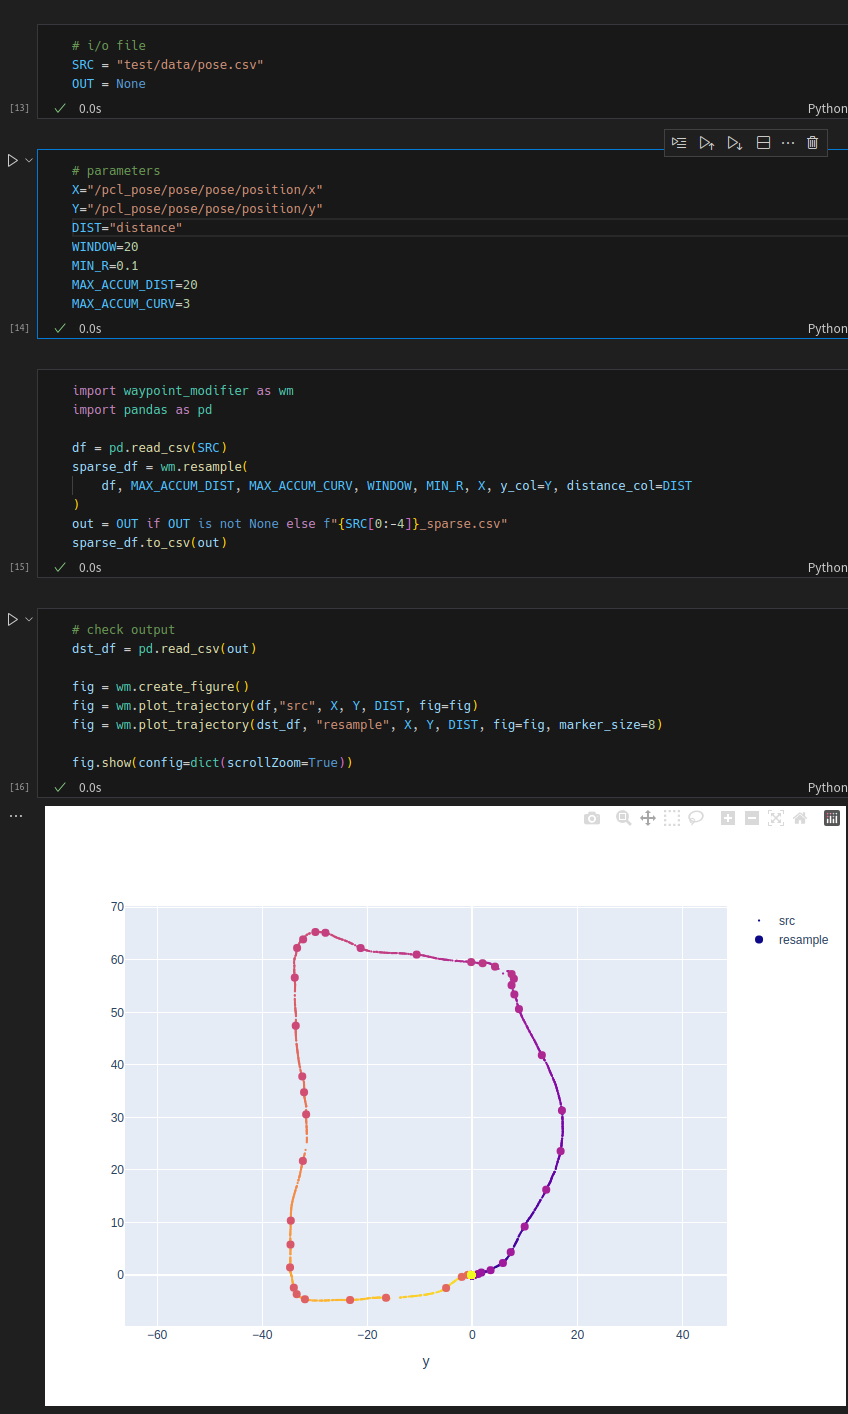
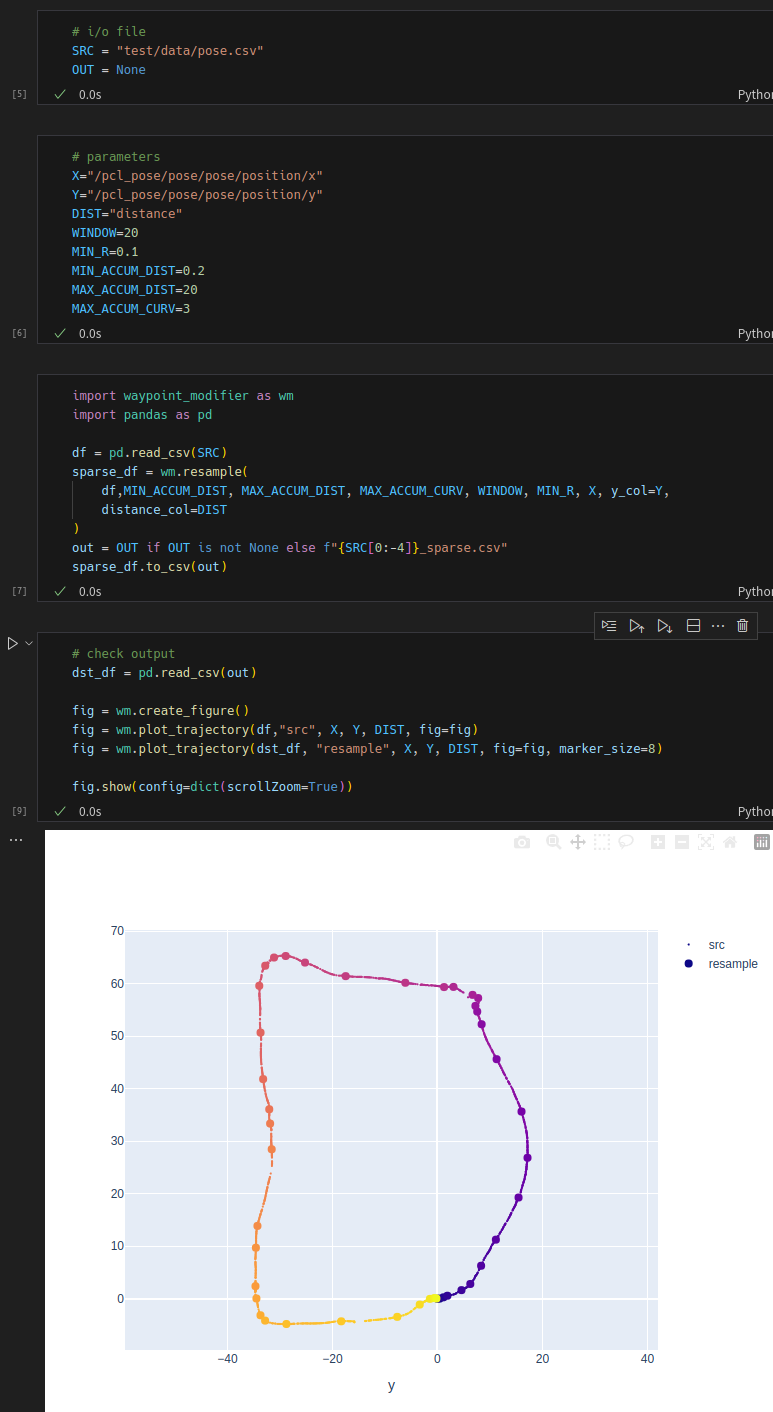
add minimal distance

diff --git a/src/waypoint_modifier/__init__.py b/src/waypoint_modifier/__init__.py
@@ -59,6 +59,7 @@ def set_distance(
 
 def do_sample(
     df: pd.DataFrame,
+    min_d: float,
     max_d: float,
     max_c: float,
     x_col="x",
@@ -77,7 +78,7 @@ def do_sample(
         dist += df[distance_col].values[i]
         curv += df[curvature_col].values[i]
 
-        if dist > max_d or curv > max_c:
+        if (dist > max_d or curv > max_c) and dist > min_d:
             ret.append(df.iloc[i])
             dist = 0.0
             curv = 0.0
@@ -91,6 +92,7 @@ def do_sample(
 
 def resample(
     df: pd.DataFrame,
+    min_d: float,
     max_d: float,
     max_c: float,
     window=20,
@@ -106,7 +108,7 @@ def resample(
     set_distance(df, x_col, y_col, distance_col)
     set_curvature(df, x_col, y_col, curvature_col, window, min_r)
 
-    return do_sample(df, max_d, max_c, x_col, y_col, distance_col, curvature_col)
+    return do_sample(df, min_d, max_d, max_c, x_col, y_col, distance_col, curvature_col)
 
 
 def create_figure(title=None, height=600) -> go.Figure:
